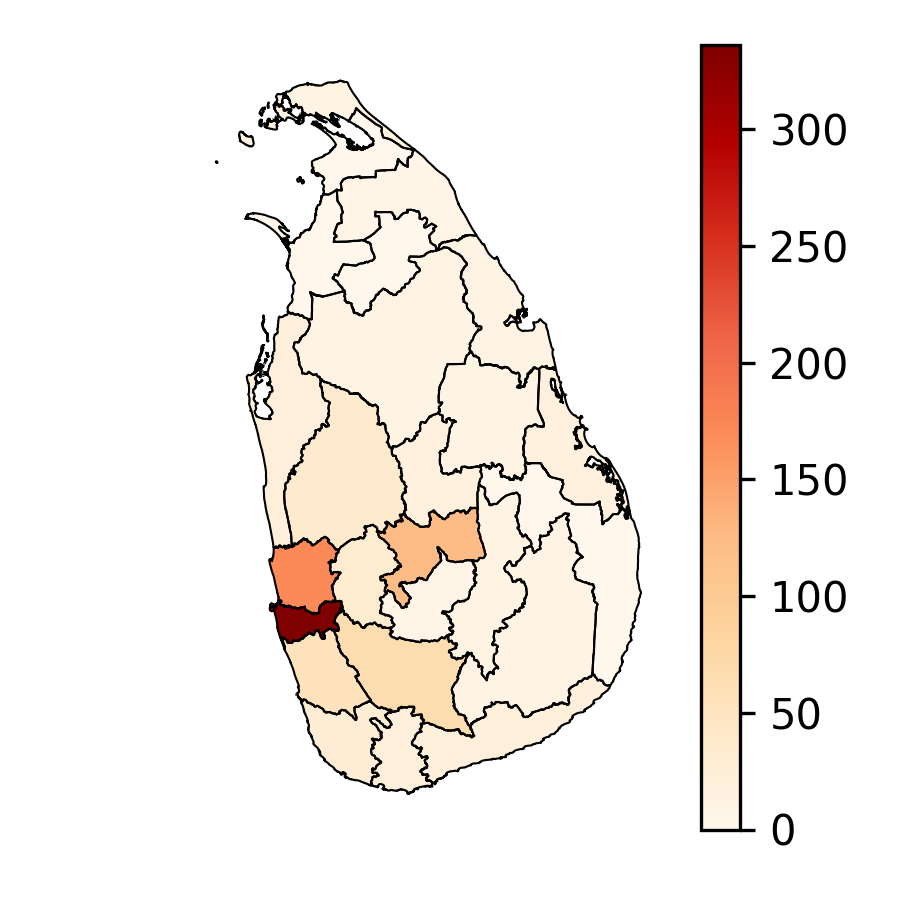
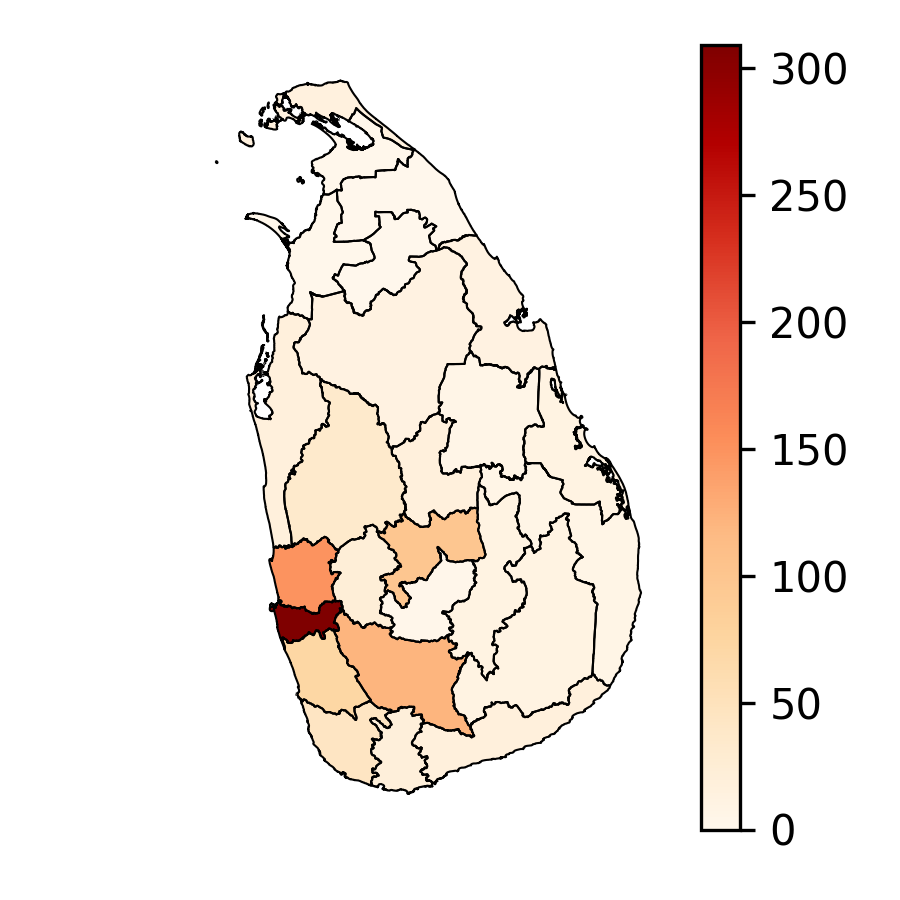
LSTM code updated

diff --git a/app_lstm_r2.py b/app_lstm_r2.py
@@ -8,6 +8,7 @@ from tensorflow.keras.optimizers import Adam
 from tensorflow.keras.callbacks import EarlyStopping, ReduceLROnPlateau
 from tensorflow.keras.losses import Huber
 import os
+import keras
 import matplotlib.pyplot as plt
 import matplotlib
 import joblib
@@ -86,17 +87,25 @@ def index():
 
     return render_template('index.html', result=None, display_list=None, error=None, months=None)
 
+def custom_attention_deserializer(**kwargs):
+    # If score_mode came in as a function object, force it back to 'dot'
+    if 'score_mode' in kwargs and not isinstance(kwargs['score_mode'], str):
+        kwargs['score_mode'] = 'dot'
+        
+    # Reconstruct the Attention layer using the cleaned parameters
+    return keras.layers.Attention(**kwargs)
+
 @app.route('/predict', methods=['POST'])
 def predict():
 
     #csv_path = os.path.join(app.config['UPLOAD_FOLDER'], 'Training_Data_Weekly_2024.csv')
 
     # Load the model and scaler
-    model_path = '/home/Dengue_Gui/content/saved_model/best_model.h5'
-    scaler_path = '/home/Dengue_Gui/content/saved_model/scaler.pkl'
+    model_path = '/workspaces/Dengue_Gui/content/saved_model/best_model.h5'
+    scaler_path = '/workspaces/Dengue_Gui/content/saved_model/scaler.pkl'
 
     try:
-      model = load_model(model_path, custom_objects={'Huber': Huber})
+      model = load_model(model_path, custom_objects={'Huber': Huber, 'Attention': custom_attention_deserializer})
       with open(scaler_path, 'rb') as f:
           scaler = joblib.load(f)
       print("Model and scaler loaded successfully.")
@@ -237,11 +246,11 @@ def draw_image(districts,param,filename):
 
 def permutation_importance():
 
-    model_path = '/home/Dengue_Gui/content/saved_model/best_model.h5'
-    scaler_path = '/home/Dengue_Gui/content/saved_model/scaler.pkl'
+    model_path = '/workspaces/Dengue_Gui/content/saved_model/best_model.h5'
+    scaler_path = '/workspaces/Dengue_Gui/content/saved_model/scaler.pkl'
 
     try:
-      model = load_model(model_path, custom_objects={'Huber': Huber})
+      model = load_model(model_path, custom_objects={'Huber': Huber, 'Attention': custom_attention_deserializer})
       with open(scaler_path, 'rb') as f:
           scaler = joblib.load(f)
       print("Model and scaler loaded successfully.")